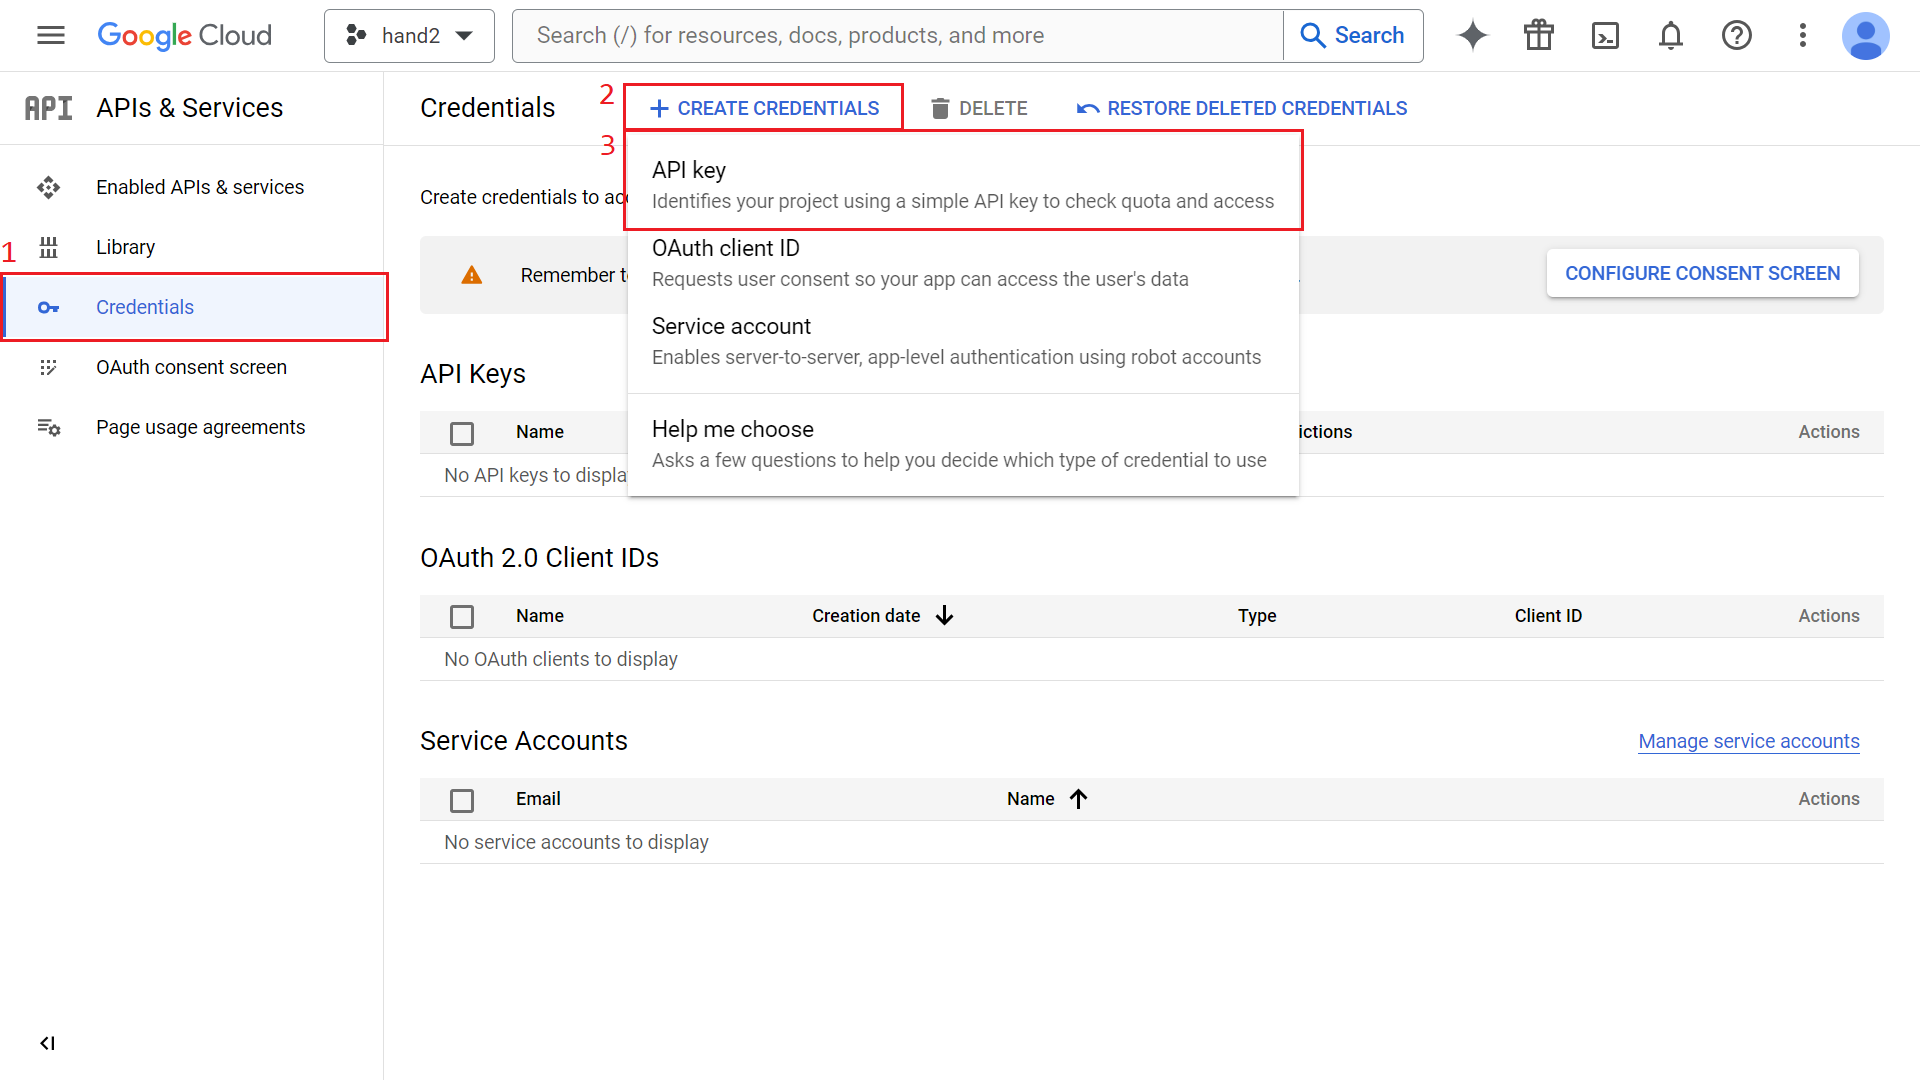
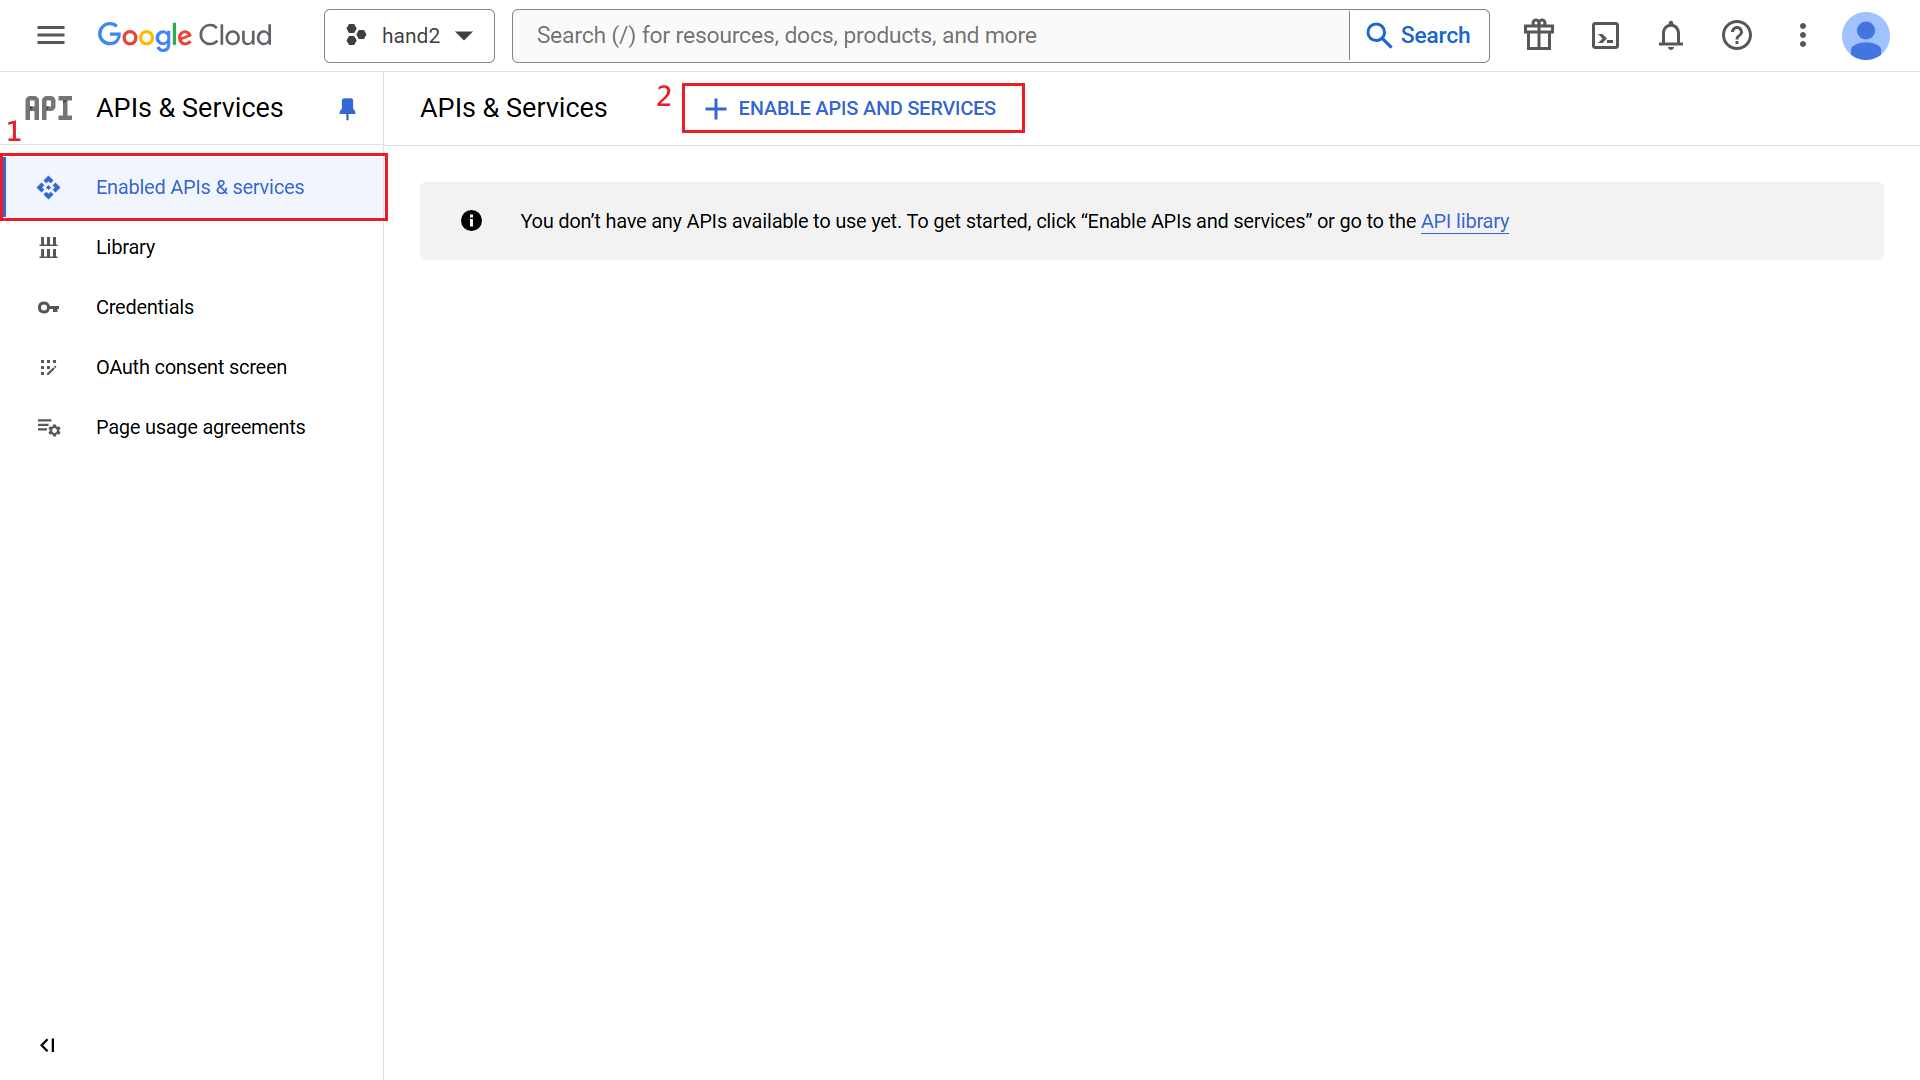
docs: fix google api key guide

diff --git a/README.md b/README.md
@@ -134,12 +134,20 @@ weekends_as_one_day = "1"
        <br>![google-api-key-01](docs/google-api-key-01.png)
     2. Fill in **Project name** -> **Create**.
        <br>![google-api-key-02](docs/google-api-key-02.png)
-    3. Go to **Credentials** -> **Create Credentials** -> **API key**.
+    3. Go to **Enabled APIs & services** -> **Enable APIs and services**.
        <br>![google-api-key-03](docs/google-api-key-03.png)
-    4. Go to **Edit API key**.
+    4. Search for **Google Sheets API**.
        <br>![google-api-key-04](docs/google-api-key-04.png)
-    5. Fill in **Name** -> **Save**, and copy the API key to `config.txt`.
+    5. Go to **Google Sheets API**.
        <br>![google-api-key-05](docs/google-api-key-05.png)
+    6. **Enable** Google Sheets API.
+       <br>![google-api-key-06](docs/google-api-key-06.png)
+    7. Go to **Credentials** -> **Create Credentials** -> **API key**.
+       <br>![google-api-key-07](docs/google-api-key-07.png)
+    8. Go to **Edit API key**.
+       <br>![google-api-key-08](docs/google-api-key-08.png)
+    9. Fill in **Name** -> **Save**, and copy the API key to `config.txt`.
+       <br>![google-api-key-09](docs/google-api-key-09.png)
 
     </details>
 
